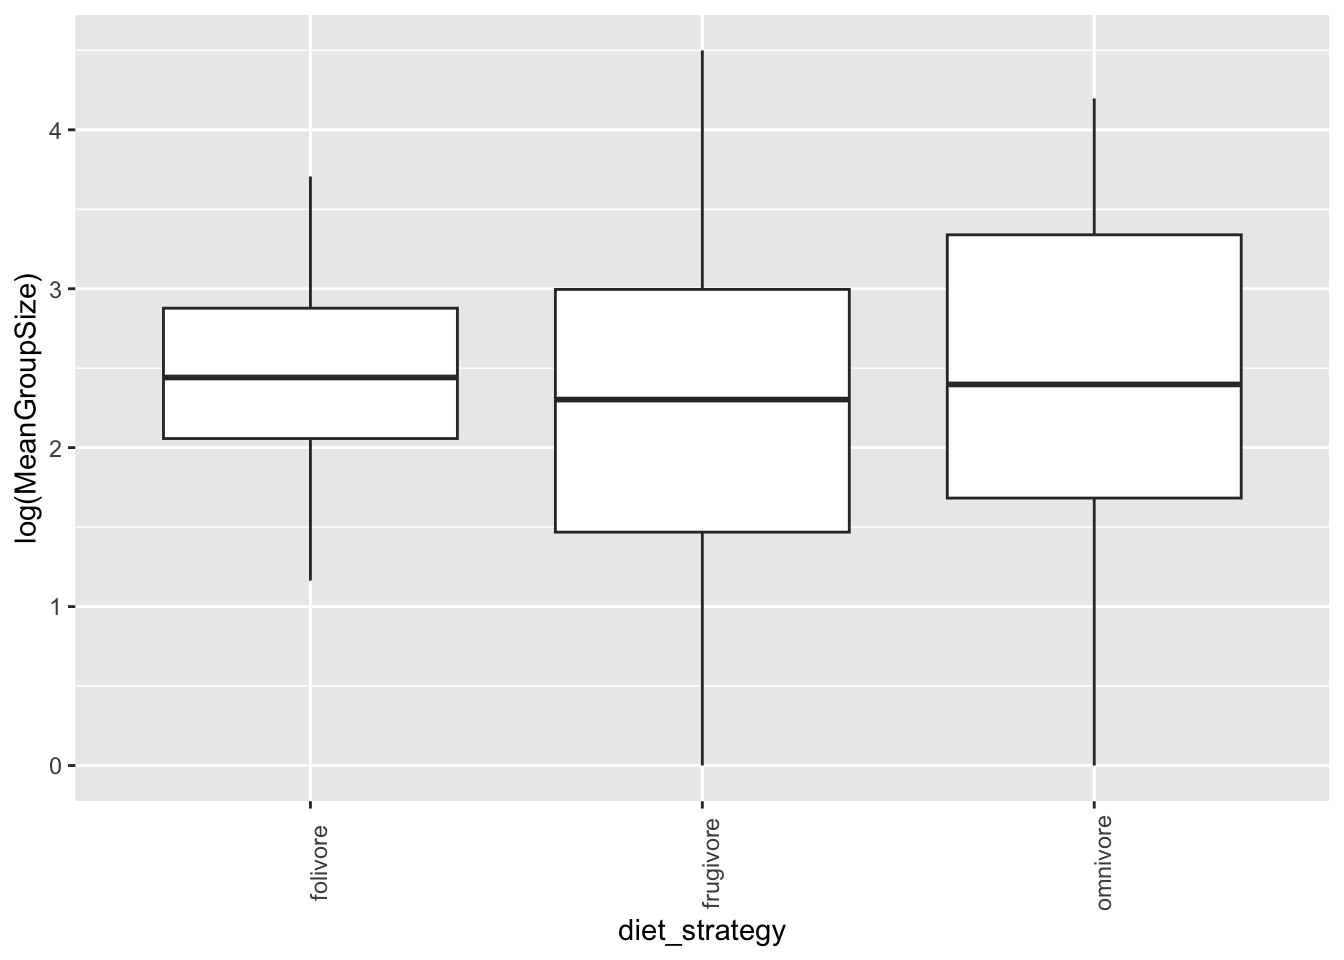
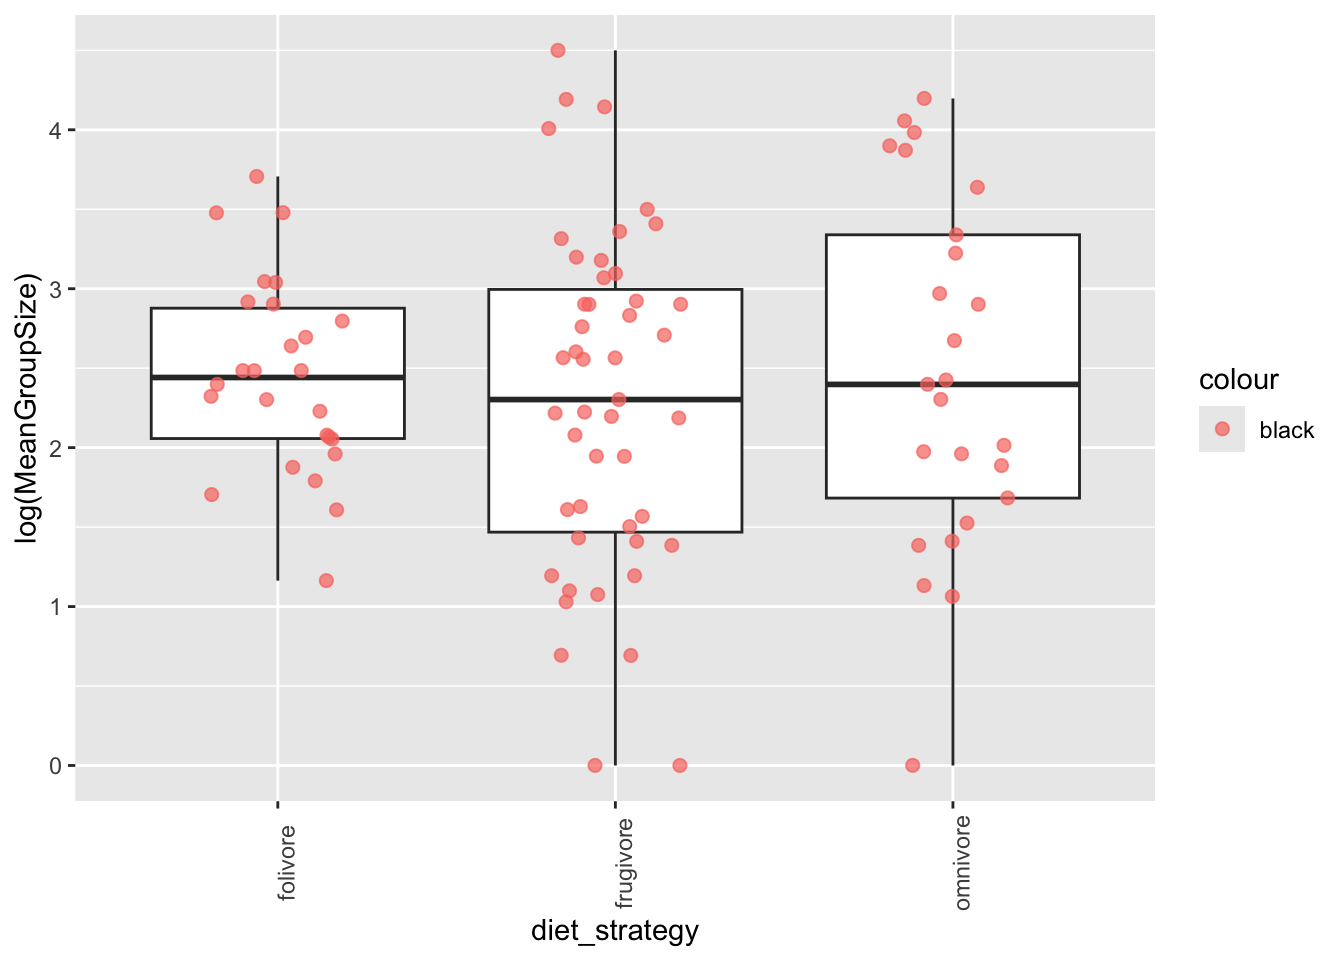
commit

diff --git a/exercise-3.html b/exercise-3.html
@@ -1382,9 +1382,14 @@ Attaching package: 'dplyr'</code></pre>
 <div class="cell">
 <div class="sourceCode cell-code" id="cb29"><pre class="sourceCode r code-with-copy"><code class="sourceCode r"><span id="cb29-1"><a href="#cb29-1" aria-hidden="true" tabindex="-1"></a>p <span class="ot">&lt;-</span> <span class="fu">ggplot</span>(<span class="at">data =</span> d <span class="sc">%&gt;%</span> <span class="fu">filter</span>(diet_strategy <span class="sc">!=</span> <span class="st">"NA"</span>), <span class="fu">aes</span>(<span class="at">x =</span> diet_strategy, <span class="at">y =</span> <span class="fu">log</span>(MeanGroupSize)))</span>
 <span id="cb29-2"><a href="#cb29-2" aria-hidden="true" tabindex="-1"></a>p <span class="ot">&lt;-</span> p <span class="sc">+</span> <span class="fu">geom_boxplot</span>(<span class="at">na.rm =</span> <span class="cn">TRUE</span>)</span>
-<span id="cb29-3"><a href="#cb29-3" aria-hidden="true" tabindex="-1"></a>p <span class="ot">&lt;-</span> p <span class="sc">+</span> <span class="fu">theme</span>(<span class="at">axis.text.x =</span> <span class="fu">element_text</span>(<span class="at">angle =</span> <span class="dv">90</span>))</span>
-<span id="cb29-4"><a href="#cb29-4" aria-hidden="true" tabindex="-1"></a>p <span class="ot">&lt;-</span> p <span class="sc">+</span> <span class="fu">ylab</span>(<span class="st">"log(MeanGroupSize)"</span>)</span>
-<span id="cb29-5"><a href="#cb29-5" aria-hidden="true" tabindex="-1"></a>p</span></code><button title="Copy to Clipboard" class="code-copy-button"><i class="bi"></i></button></pre></div>
+<span id="cb29-3"><a href="#cb29-3" aria-hidden="true" tabindex="-1"></a>p <span class="ot">&lt;-</span> p <span class="sc">+</span> <span class="fu">geom_jitter</span>(<span class="fu">aes</span>(<span class="at">color =</span> <span class="st">"black"</span>), <span class="at">width =</span> <span class="fl">0.2</span>, <span class="at">size =</span> <span class="dv">2</span>, <span class="at">alpha =</span> <span class="fl">0.7</span>) </span>
+<span id="cb29-4"><a href="#cb29-4" aria-hidden="true" tabindex="-1"></a>p <span class="ot">&lt;-</span> p <span class="sc">+</span> <span class="fu">theme</span>(<span class="at">axis.text.x =</span> <span class="fu">element_text</span>(<span class="at">angle =</span> <span class="dv">90</span>))</span>
+<span id="cb29-5"><a href="#cb29-5" aria-hidden="true" tabindex="-1"></a>p <span class="ot">&lt;-</span> p <span class="sc">+</span> <span class="fu">ylab</span>(<span class="st">"log(MeanGroupSize)"</span>)</span>
+<span id="cb29-6"><a href="#cb29-6" aria-hidden="true" tabindex="-1"></a>p</span></code><button title="Copy to Clipboard" class="code-copy-button"><i class="bi"></i></button></pre></div>
+<div class="cell-output cell-output-stderr">
+<pre><code>Warning: Removed 19 rows containing missing values or values outside the scale range
+(`geom_point()`).</code></pre>
+</div>
 <div class="cell-output-display">
 <div>
 <figure class="figure">
@@ -1398,14 +1403,14 @@ Attaching package: 'dplyr'</code></pre>
 <section id="section" class="level2">
 <h2 class="anchored" data-anchor-id="section">8</h2>
 <div class="cell">
-<div class="sourceCode cell-code" id="cb30"><pre class="sourceCode r code-with-copy"><code class="sourceCode r"><span id="cb30-1"><a href="#cb30-1" aria-hidden="true" tabindex="-1"></a>d <span class="sc">%&gt;%</span>  </span>
-<span id="cb30-2"><a href="#cb30-2" aria-hidden="true" tabindex="-1"></a>  <span class="fu">mutate</span>(<span class="at">Binomial =</span> <span class="fu">paste</span>(Genus, Species, <span class="at">sep =</span> <span class="st">" "</span>)) <span class="sc">%&gt;%</span></span>
-<span id="cb30-3"><a href="#cb30-3" aria-hidden="true" tabindex="-1"></a>  <span class="fu">select</span>(Binomial, Family, Brain_Size_Species_Mean, Body_mass_male_mean) <span class="sc">%&gt;%</span></span>
-<span id="cb30-4"><a href="#cb30-4" aria-hidden="true" tabindex="-1"></a>  <span class="fu">group_by</span>(Family) <span class="sc">%&gt;%</span></span>
-<span id="cb30-5"><a href="#cb30-5" aria-hidden="true" tabindex="-1"></a>  <span class="fu">summarise</span>(<span class="at">avgBS =</span> <span class="fu">mean</span>(Brain_Size_Species_Mean, <span class="at">na.rm =</span> <span class="cn">TRUE</span>),</span>
-<span id="cb30-6"><a href="#cb30-6" aria-hidden="true" tabindex="-1"></a>    <span class="at">avgBM =</span> <span class="fu">mean</span>(Body_mass_male_mean, <span class="at">na.rm =</span> <span class="cn">TRUE</span>)) <span class="sc">%&gt;%</span></span>
-<span id="cb30-7"><a href="#cb30-7" aria-hidden="true" tabindex="-1"></a>  <span class="fu">arrange</span>(avgBS) <span class="sc">%&gt;%</span></span>
-<span id="cb30-8"><a href="#cb30-8" aria-hidden="true" tabindex="-1"></a>  print</span></code><button title="Copy to Clipboard" class="code-copy-button"><i class="bi"></i></button></pre></div>
+<div class="sourceCode cell-code" id="cb31"><pre class="sourceCode r code-with-copy"><code class="sourceCode r"><span id="cb31-1"><a href="#cb31-1" aria-hidden="true" tabindex="-1"></a>d <span class="sc">%&gt;%</span>  </span>
+<span id="cb31-2"><a href="#cb31-2" aria-hidden="true" tabindex="-1"></a>  <span class="fu">mutate</span>(<span class="at">Binomial =</span> <span class="fu">paste</span>(Genus, Species, <span class="at">sep =</span> <span class="st">" "</span>)) <span class="sc">%&gt;%</span></span>
+<span id="cb31-3"><a href="#cb31-3" aria-hidden="true" tabindex="-1"></a>  <span class="fu">select</span>(Binomial, Family, Brain_Size_Species_Mean, Body_mass_male_mean) <span class="sc">%&gt;%</span></span>
+<span id="cb31-4"><a href="#cb31-4" aria-hidden="true" tabindex="-1"></a>  <span class="fu">group_by</span>(Family) <span class="sc">%&gt;%</span></span>
+<span id="cb31-5"><a href="#cb31-5" aria-hidden="true" tabindex="-1"></a>  <span class="fu">summarise</span>(<span class="at">avgBS =</span> <span class="fu">mean</span>(Brain_Size_Species_Mean, <span class="at">na.rm =</span> <span class="cn">TRUE</span>),</span>
+<span id="cb31-6"><a href="#cb31-6" aria-hidden="true" tabindex="-1"></a>    <span class="at">avgBM =</span> <span class="fu">mean</span>(Body_mass_male_mean, <span class="at">na.rm =</span> <span class="cn">TRUE</span>)) <span class="sc">%&gt;%</span></span>
+<span id="cb31-7"><a href="#cb31-7" aria-hidden="true" tabindex="-1"></a>  <span class="fu">arrange</span>(avgBS) <span class="sc">%&gt;%</span></span>
+<span id="cb31-8"><a href="#cb31-8" aria-hidden="true" tabindex="-1"></a>  print</span></code><button title="Copy to Clipboard" class="code-copy-button"><i class="bi"></i></button></pre></div>
 <div class="cell-output cell-output-stdout">
 <pre><code># A tibble: 14 × 3
    Family           avgBS  avgBM
